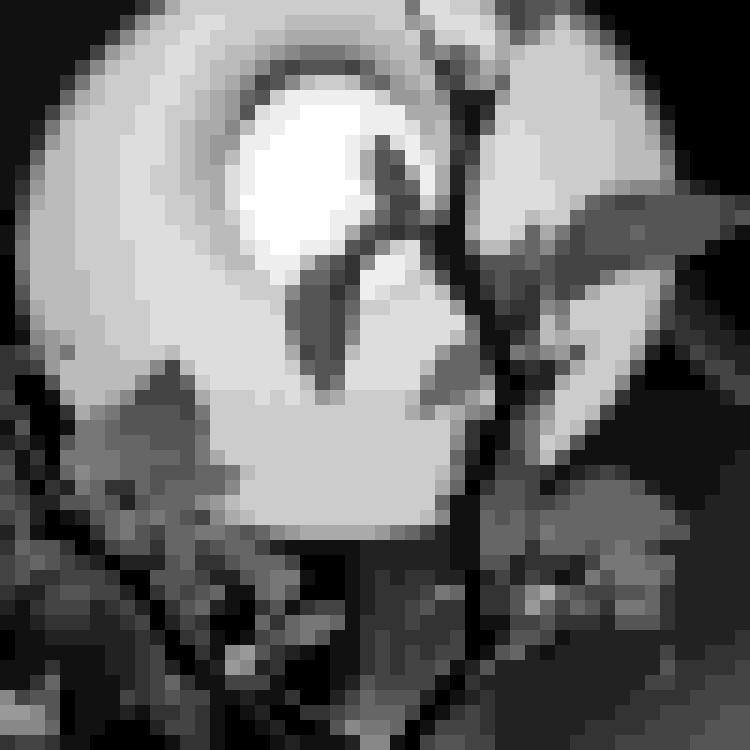
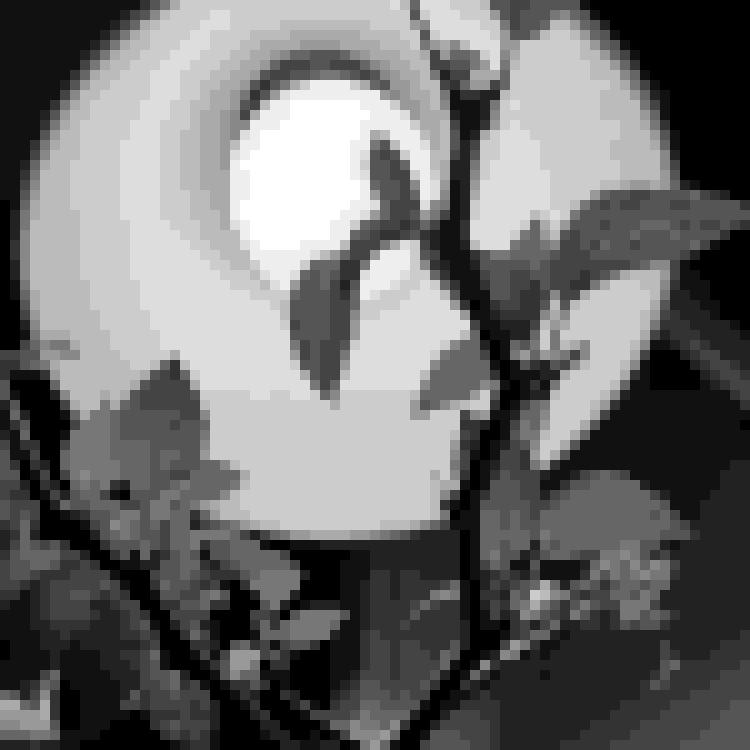
Часть 4

diff --git a/filter.py b/filter.py
@@ -1,5 +1,6 @@
 from PIL import Image
 import numpy as np
+import sys
 
 
 def get_mosaic_image(image, mosaic_size=10, gradation=4):
@@ -19,6 +20,7 @@ def get_mosaic_image(image, mosaic_size=10, gradation=4):
         i += mosaic_size
     return Image.fromarray(np.uint8(image_tensor))
 
+
 def set_color(new_color, tensor, mosaic_size, i, j):
     for sector_i in range(i, i + mosaic_size):
         for sector_j in range(j, j + mosaic_size):
@@ -26,6 +28,10 @@ def set_color(new_color, tensor, mosaic_size, i, j):
                 tensor[sector_i][sector_j][c] = new_color
 
 
-source_img = Image.open("img2.jpg")
-res = get_mosaic_image(source_img, mosaic_size=15, gradation=5)
-res.save('res.jpg')
+if __name__ == "__main__":
+    source_name = sys.argv[1]
+    output_name = sys.argv[2]
+
+    source_img = Image.open(source_name)
+    image_tensor = np.array(source_img).astype(int)
+    get_mosaic_image(image_tensor, mosaic_size=10, gradation=5).save(output_name)
